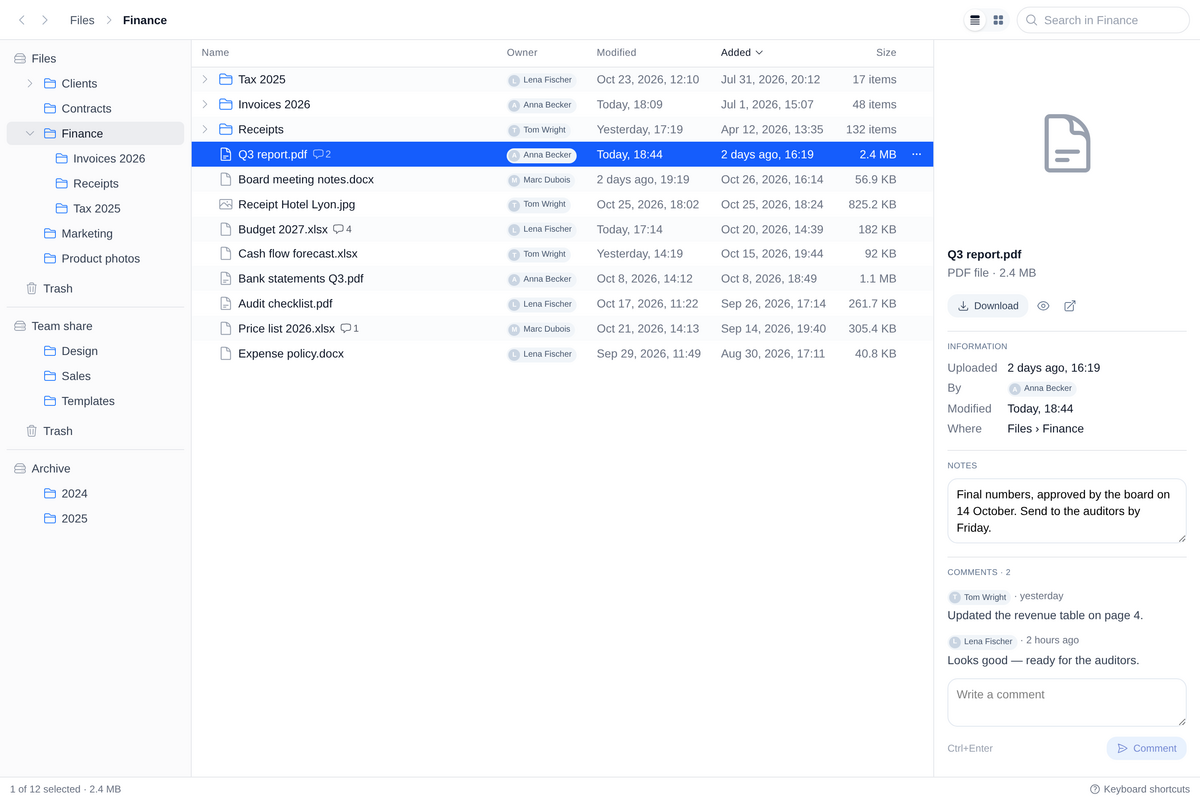
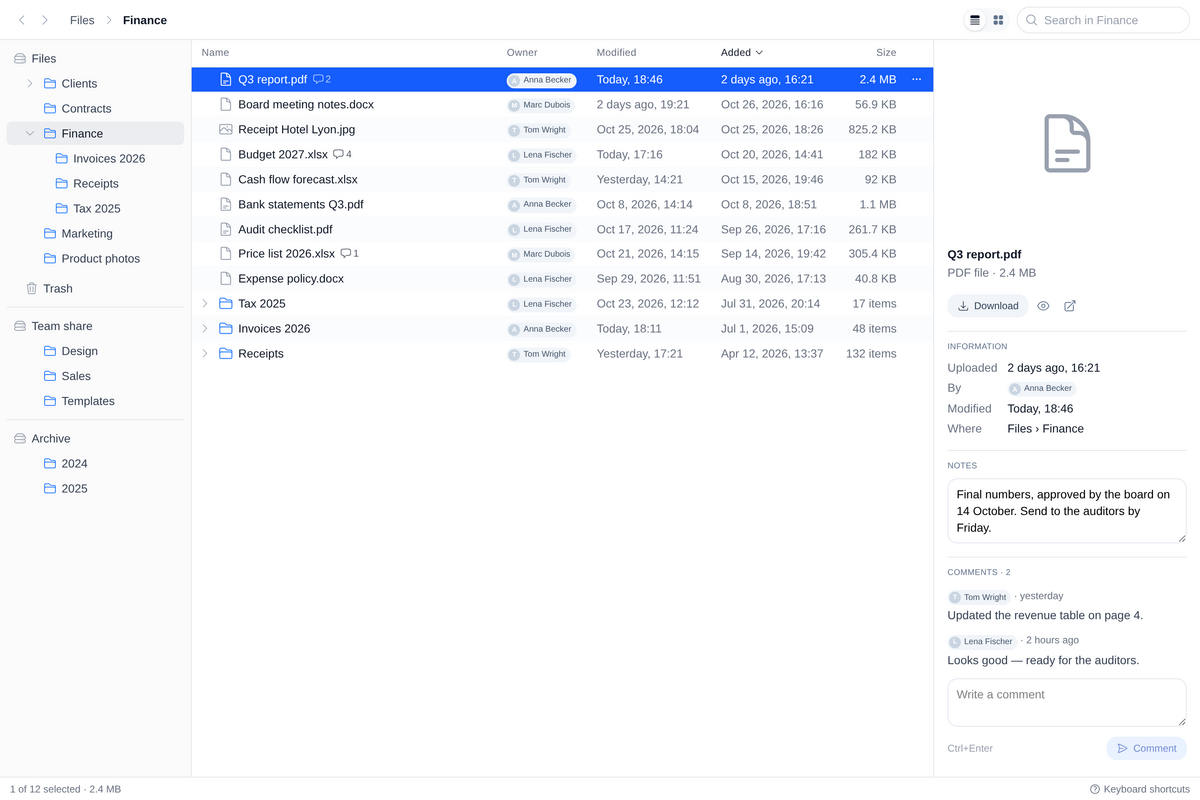
Files: Show a drive's trash only when it holds something; keep folders on top only when sorting by name

diff --git a/resources/js/islands/FileManager.island.vue b/resources/js/islands/FileManager.island.vue
@@ -167,6 +167,10 @@ function ordered(level, filterByName = true) {
     const matches = (item) => !filterByName || !needle || item.name.toLowerCase().includes(needle);
     const { sortBy: column, sortDirection } = view.value;
 
+    if (column !== 'name') {
+        return sortItems([...level.folders, ...level.files].filter(matches), column, sortDirection);
+    }
+
     return [...sortItems(level.folders.filter(matches), column, sortDirection), ...sortItems(level.files.filter(matches), column, sortDirection)];
 }
 
@@ -774,6 +778,15 @@ function dropOnTrash(event, volume) {
 function onTrashRestored() {
     folderCache.clear();
     loadTree();
+}
+
+function onTrashCount(count) {
+    trashCount.value = count;
+    loadTree();
+
+    if (count === 0) {
+        openFolder(null, null, trashVolume.value);
+    }
 }
 
 function downloadZip(zippedItems) {
@@ -1489,7 +1502,7 @@ function onFileChanged(file) {
                         :volume="trashVolume"
                         :endpoints="endpoints"
                         @restored="onTrashRestored"
-                        @count="trashCount = $event"
+                        @count="onTrashCount"
                     />
 
                     <div v-else-if="loading" class="space-y-1 p-3">

diff --git a/resources/js/components/TrashView.vue b/resources/js/components/TrashView.vue
@@ -38,6 +38,7 @@ async function load() {
         const { data } = await httpClient.get(props.endpoints.trash, { params: { volume: props.volume } });
         entries.value = data.data.entries;
         retentionDays.value = data.data.retentionDays;
+        emit('count', entries.value.length);
         selected.value = new Set([...selected.value].filter((key) => entries.value.some((entry) => itemKey(entry) === key)));
     } catch {
         failed.value = true;
@@ -50,8 +51,6 @@ watch(() => props.volume, () => {
     selected.value = new Set();
     load();
 }, { immediate: true });
-
-watch(() => entries.value.length, (count) => emit('count', count), { immediate: true });
 
 function onRowClick(event, entry) {
     const key = itemKey(entry);

diff --git a/resources/js/components/FolderTree.vue b/resources/js/components/FolderTree.vue
@@ -126,7 +126,7 @@ const rowClass = (volume, id) => [
                 <span v-else class="min-w-0 break-words py-1">{{ folder.name }}</span>
             </div>
             <button
-                v-if="volume.canWrite"
+                v-if="volume.canWrite && volume.trashCount > 0"
                 type="button"
                 class="!mt-2 flex min-h-7 w-full cursor-default select-none items-center gap-1.5 rounded-md pr-2 text-left text-sm"
                 :style="{ paddingLeft: '22px' }"

diff --git a/src/Island/Queries/FolderContentsQuery.php b/src/Island/Queries/FolderContentsQuery.php
@@ -57,17 +57,24 @@ class FolderContentsQuery
     }
 
     /**
-     * @return list<array{key: string, name: string, folders: list<array{id: int, parentId: ?int, name: string, depth: int}>}>
+     * @return list<array{key: string, name: string, canWrite: bool, trashCount: int, folders: list<array{id: int, parentId: ?int, name: string, depth: int}>}>
      */
     public function tree(Authenticatable $user): array
     {
         return array_values(array_map(fn (Volume $volume): array => [
             ...$volume->toArrayFor($user),
+            'trashCount' => $volume->isWritableBy($user) ? $this->trashCount($volume) : 0,
             'folders' => array_map(
                 fn (array $row): array => ['id' => $row['folder']->id, 'parentId' => $row['folder']->parent_id, 'name' => $row['folder']->name, 'depth' => $row['depth']],
                 $this->tree->flattened($volume->key),
             ),
         ], FileManager::volumesFor($user)));
+    }
+
+    private function trashCount(Volume $volume): int
+    {
+        return Folder::onlyTrashed()->where('volume', $volume->key)->where('trash_root', true)->count()
+            + File::onlyTrashed()->where('volume', $volume->key)->where('trash_root', true)->count();
     }
 
     private const int SNIPPET_BEFORE = 30;
